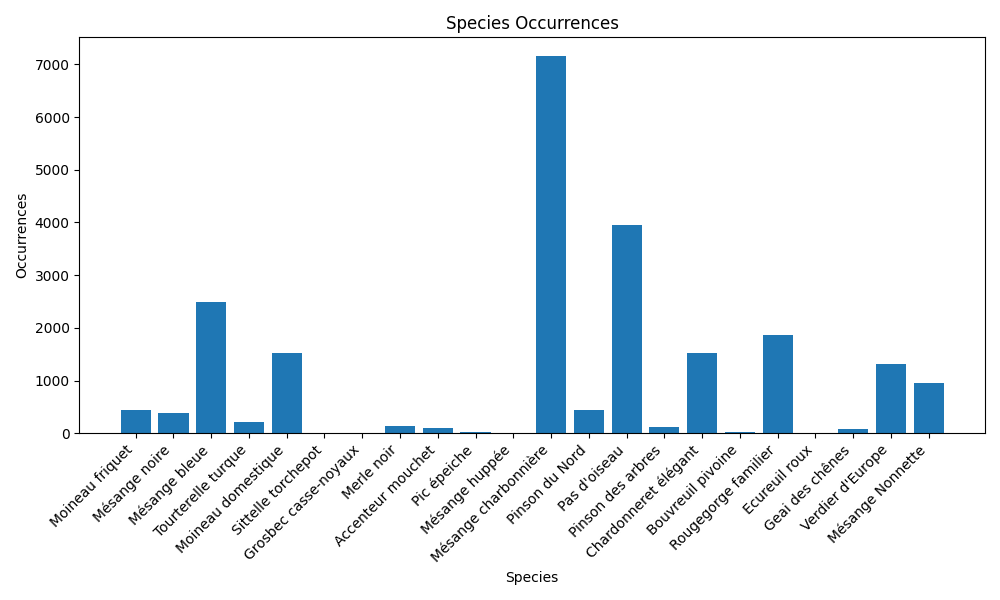
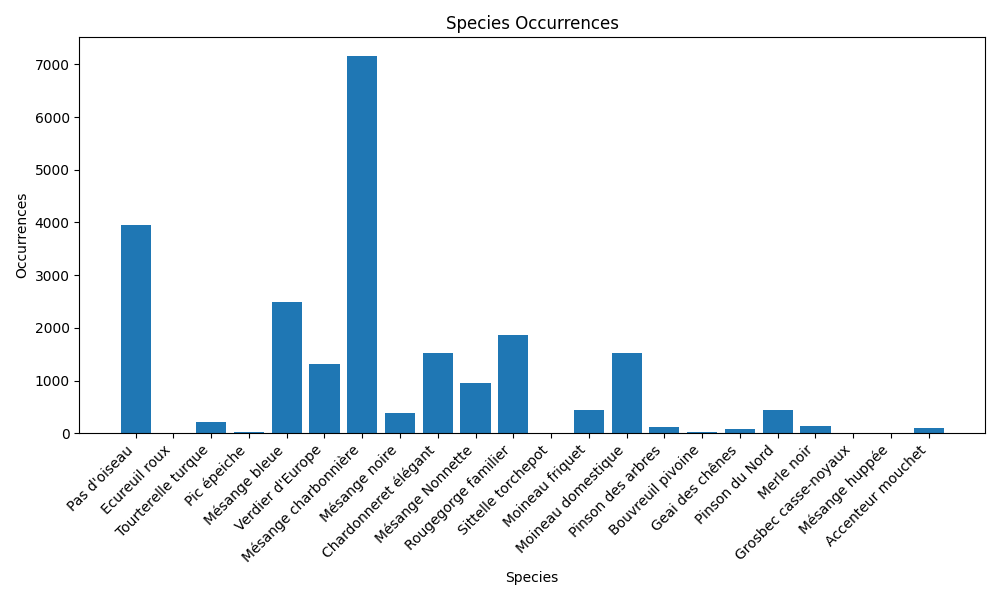
added stats about feeder

diff --git a/database_statistics.py b/database_statistics.py
@@ -3,6 +3,29 @@ import argparse
 import matplotlib.pyplot as plt
 import os
 
+# Would be better to average the species count for each species
+
+
+def find_feeder_with_most_species(species_per_feeder):
+    # Initialize variables to keep track of the feeder and species counts
+    selected_feeder = None
+    min_species_count = float('inf')
+
+    for feeder, data in species_per_feeder.items():
+        species_count = data['species_count']
+
+        # Initialize selected_feeder with the first feeder encountered
+        if selected_feeder is None:
+            selected_feeder = feeder
+            min_species_count = species_count
+        else:
+            # Check if this feeder has more species and fewer counts than the current minimum
+            if len(data['species_names']) > len(species_per_feeder[selected_feeder]['species_names']) and species_count < min_species_count:
+                selected_feeder = feeder
+                min_species_count = species_count
+
+    return selected_feeder
+
 
 def main():
     # Create an argument parser
@@ -23,8 +46,8 @@ def main():
     output_folder = args.output_folder
     os.makedirs(output_folder, exist_ok=True)
 
-    # Create a dictionary to store the species data
-    species_dict = {}
+   # Create a dictionary to store species per feeder
+    species_per_feeder = {}
 
     # Read the data from the file
     with open(input_file, mode="r", newline="", encoding="utf-8") as file:
@@ -32,32 +55,75 @@ def main():
         for row in reader:
             video_id = row["video_id"]
             species = row["species"]
+            # Assuming "feeder" is the column name in your CSV
+            feeder = row["feeder"]
 
-            # We don't add to the dict if it's NA
+            if feeder not in species_per_feeder:
+                species_per_feeder[feeder] = {
+                    "species_count": 0, "species_names": [], "species_counts": {}}
+
             if species != 'NA':
-                species_dict[video_id] = species
+                species_per_feeder[feeder]["species_count"] += 1
+
+                if species not in species_per_feeder[feeder]["species_names"]:
+                    species_per_feeder[feeder]["species_names"].append(species)
+
+                if species not in species_per_feeder[feeder]["species_counts"]:
+                    species_per_feeder[feeder]["species_counts"][species] = 1
+                else:
+                    species_per_feeder[feeder]["species_counts"][species] += 1
 
     # Calculate basic statistics
-    total_entries = len(species_dict)
-    unique_species = list(set(species_dict.values()))
+    total_feeders = len(species_per_feeder)
+    unique_species = set(species for data in species_per_feeder.values()
+                         for species in data["species_names"])
 
     # Print basic statistics
     print("Basic Statistics:")
-    print(f"Total Entries: {total_entries}")
+    print(f"Total Feeder: {total_feeders}")
     print(f"Unique Species: {len(unique_species)}")
 
-    # Count occurrences of each species
-    species_counts = {species: list(species_dict.values()).count(
-        species) for species in unique_species}
+    # Count occurrences of each species by feeder
+    species_counts_by_feeder = {}
+    for feeder, data in species_per_feeder.items():
+        species_counts_by_feeder[feeder] = data["species_count"]
 
-    # Print species occurrences
-    print("\nSpecies Occurrences:")
-    for species, count in species_counts.items():
-        print(f"{species}: {count} times")
+    for feeder, data in species_per_feeder.items():
+        print(f"Feeder: {feeder}")
+        print(f"Total of Species Counted: {data['species_count']}")
+        print(f"Species Names: {', '.join(data['species_names'])}\n")
+
+        # Print counts of each species for the current feeder
+        print("Species Counts:")
+        for species, count in data["species_counts"].items():
+            print(f"{species}: {count}")
+
+        print()
+
+    # Print species occurrences by feeder
+    print("\nSpecies Occurrences by Feeder:")
+    for feeder, data in species_per_feeder.items():
+        print(f"Feeder: {feeder}")
+        for species, count in data["species_counts"].items():
+            print(f"{species}: {count} times")
+        print()
+
+    # Call the function to find the feeder
+    selected_feeder = find_feeder_with_most_species(species_per_feeder)
+    print(f"Feeder with the most species and lowest counts: {selected_feeder}")
 
     # Create a bar chart for species occurrences
     plt.figure(figsize=(10, 6))
-    plt.bar(species_counts.keys(), species_counts.values())
+    species_counts_by_species = {}
+    for data in species_per_feeder.values():
+        for species, count in data["species_counts"].items():
+            if species in species_counts_by_species:
+                species_counts_by_species[species] += count
+            else:
+                species_counts_by_species[species] = count
+
+    plt.bar(species_counts_by_species.keys(),
+            species_counts_by_species.values())
     plt.xlabel("Species")
     plt.ylabel("Occurrences")
     plt.title("Species Occurrences")
@@ -68,7 +134,6 @@ def main():
     chart_filename = os.path.join(output_folder, "species_occurrences.png")
     plt.savefig(chart_filename)
 
-    # Display the bar chart
     plt.show()
 
 

diff --git a/main.py b/main.py
@@ -26,7 +26,7 @@ def main():
                         help="Path to the input video file")
     parser.add_argument("-o", type=str, default="video_annotated.mp4",
                         help="Output video file name, will always be in output_files folder")
-    parser.add_argument("-m", type=str, default="best.pt",
+    parser.add_argument("-m", type=str, default="best_weights/best.pt",
                         help="Model to use")
     parser.add_argument("--not-show", action="store_true",
                         help="Show the annotation in not")

diff --git a/create_annotated_video.py b/create_annotated_video.py
@@ -102,6 +102,7 @@ def main():
     elif probability < args.p + (1 - args.p) / 2:
         image_dir = images_val_dir
         label_dir = labels_val_dir
+    # Would be nice to put all the videos of a feeder into test to see generalization capability
     else:
         image_dir = images_test_dir
         label_dir = labels_test_dir

diff --git a/create_dataset.py b/create_dataset.py
@@ -1,7 +1,6 @@
 import argparse
 import os
 from tqdm import tqdm
-import csv
 import shutil
 import json
 
